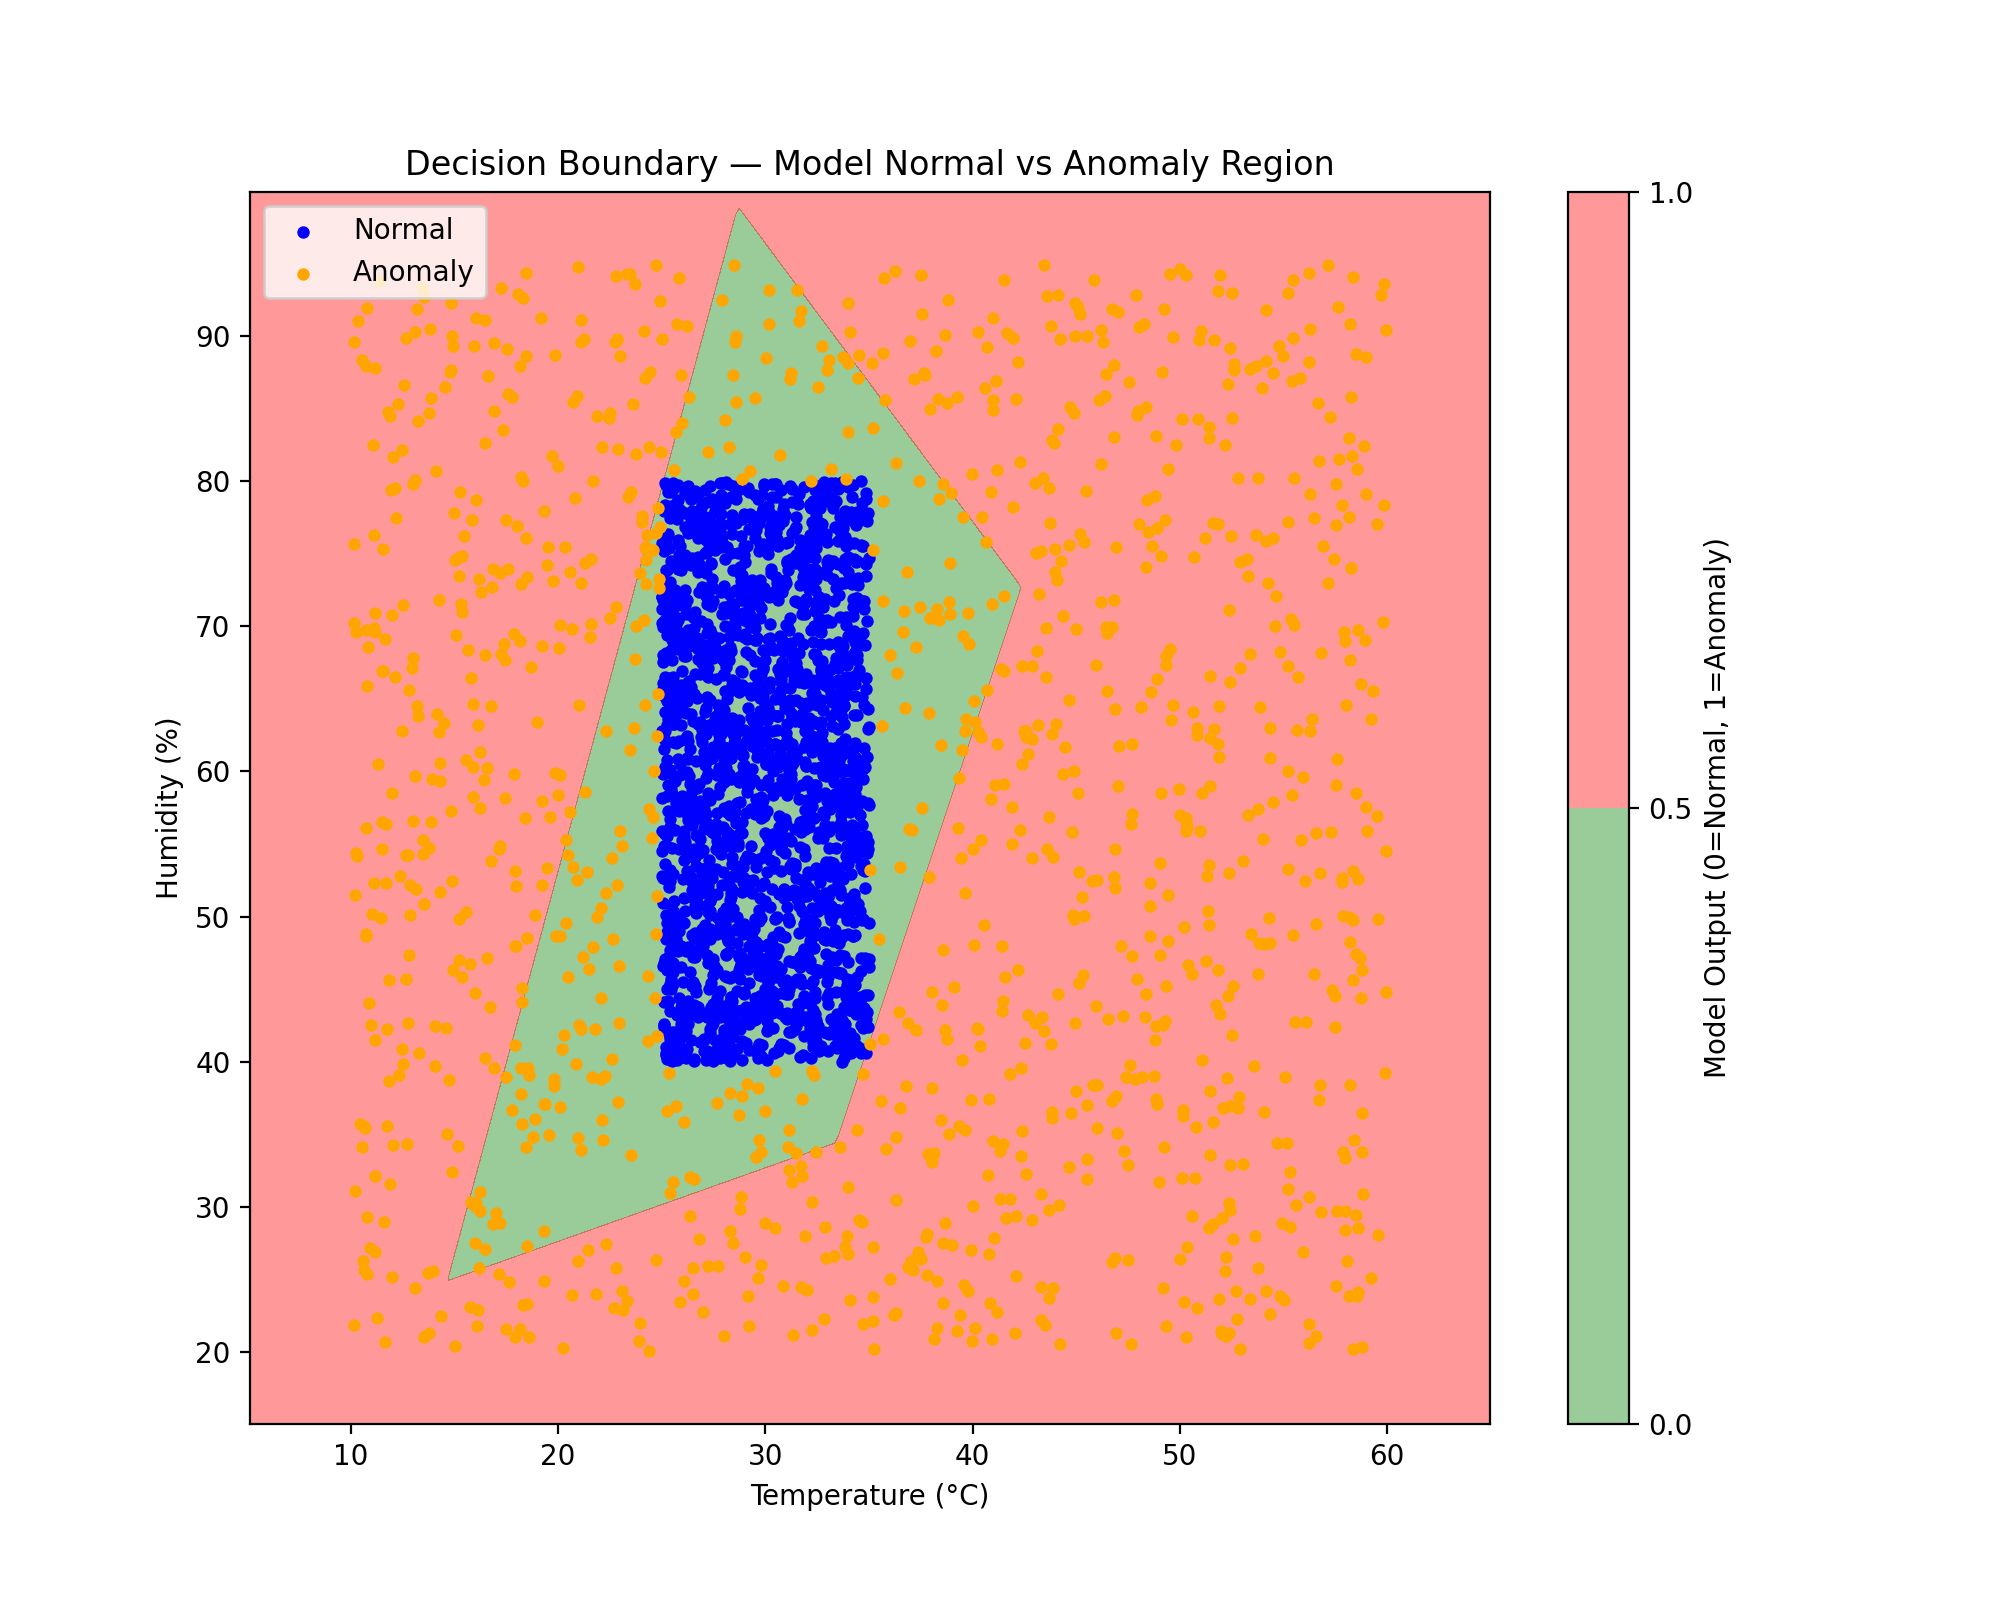
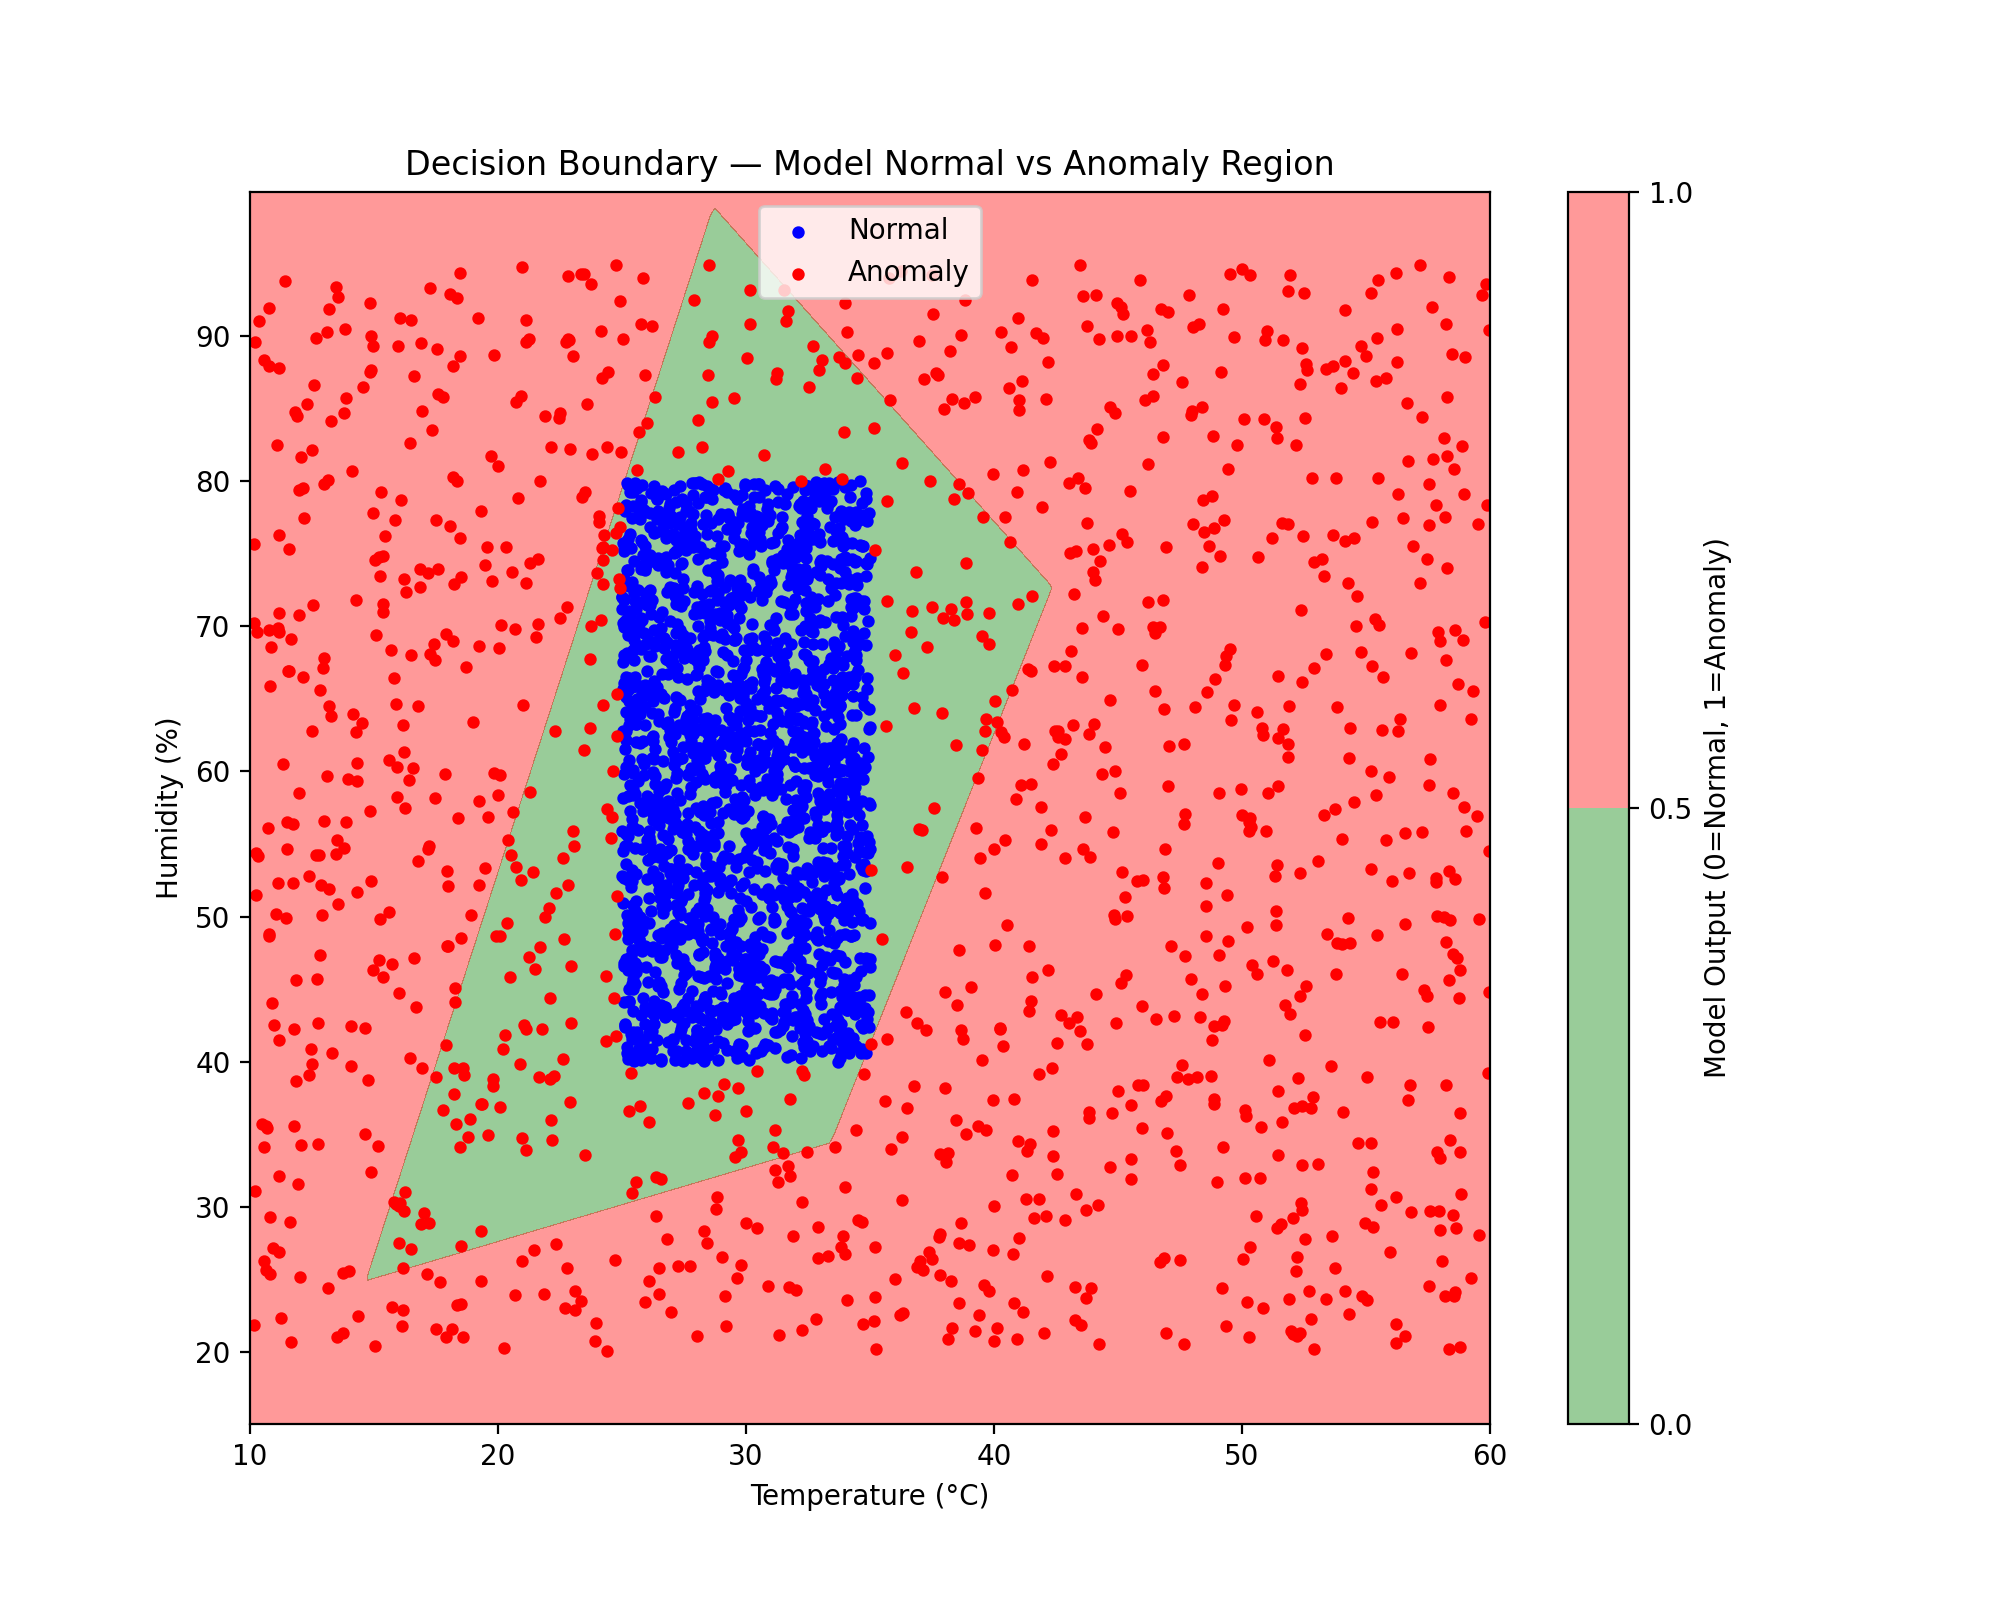
Chore: Update decision region

Changed region(s): [[0.124, 0.125, 0.744, 0.8438], [0.465, 0.9062, 0.496, 0.9375]]

diff --git a/python/plot_decision_region.py b/python/plot_decision_region.py
@@ -34,19 +34,18 @@ def plot_decision_region():
     out_dir = "images"
     os.makedirs(out_dir, exist_ok=True)
 
-    # Plot decision region
     plt.figure(figsize=(10, 8))
     plt.contourf(xx, yy, preds, levels=[0, 0.5, 1], alpha=0.4, colors=["green", "red"])
     plt.colorbar(label="Model Output (0=Normal, 1=Anomaly)")
 
-    # Optional: Plot dataset on top
     labels = data[:, 2]
     plt.scatter(temps[labels == 0], hums[labels == 0], s=12, color="blue", label="Normal")
-    plt.scatter(temps[labels == 1], hums[labels == 1], s=12, color="orange", label="Anomaly")
+    plt.scatter(temps[labels == 1], hums[labels == 1], s=12, color="red", label="Anomaly")
 
     plt.title("Decision Boundary — Model Normal vs Anomaly Region")
     plt.xlabel("Temperature (°C)")
     plt.ylabel("Humidity (%)")
+    plt.xlim(10, 60)
     plt.legend()
 
     out_path = os.path.join(out_dir, f"{PREFIX}_decision_region.png")
